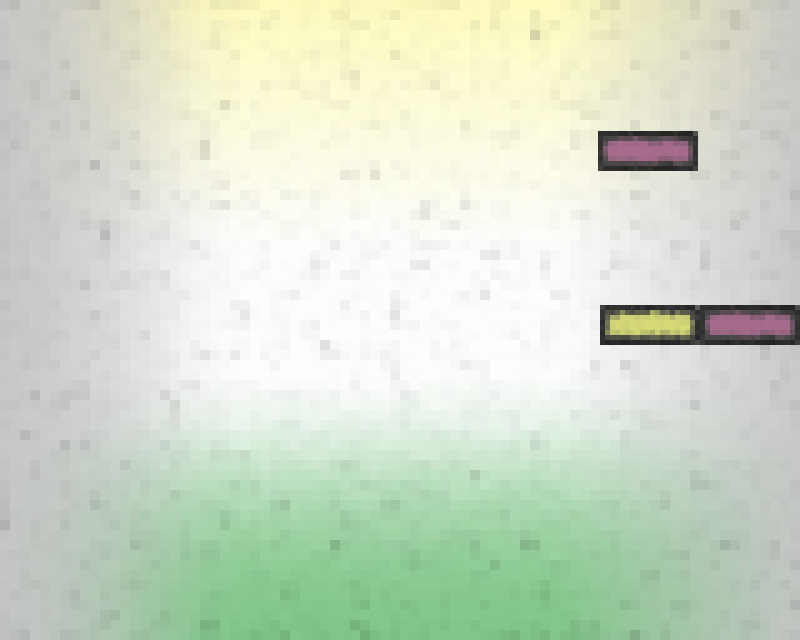
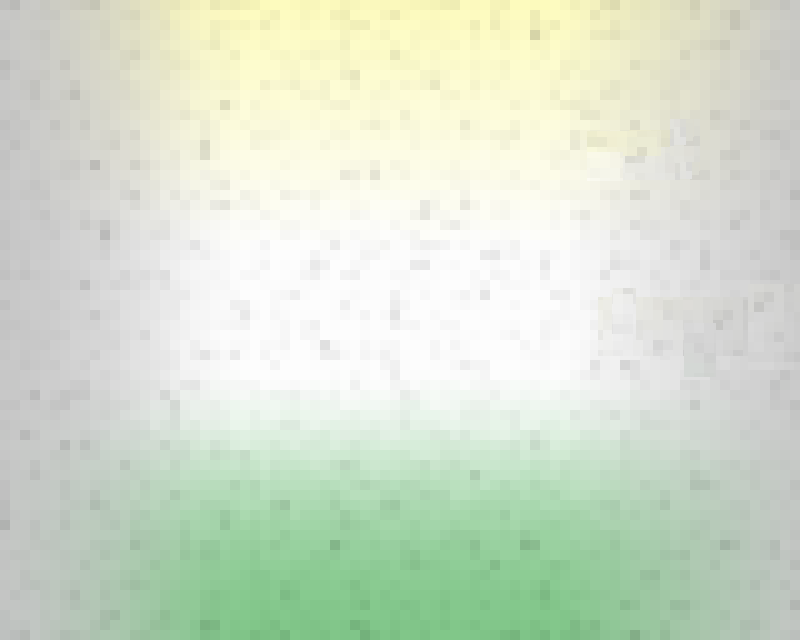
keys in optionsScreen

Changed region(s): [[0.75, 0.4688, 1.0, 0.5625], [0.75, 0.1875, 0.875, 0.2812]]

diff --git a/src/screens/optionsScreen.py b/src/screens/optionsScreen.py
@@ -19,9 +19,12 @@ class OptionsScreen(Screen_):
         super(OptionsScreen, self).__init__()
     
         self.font = utils.getFont('Handy00', 44)
+        self.infofont = utils.getFont('Handy00', 18)
+        self.keyfont = utils.getFont('Handy00', 24)
         self.background = pygame.image.load("../img/backgrounds/options.png").convert()
         self.soundBar = pygame.image.load("../img/backgrounds/soundBar.png")
         self.musicBar = pygame.image.load("../img/backgrounds/soundBar.png")
+        self.keyImg = pygame.image.load("../img/backgrounds/key.png")
         self.volumeTest = pygame.mixer.Sound("../sounds/volumeTest.wav")
         self.menuEntries = ["Music","Sound","Controls","Back"]
         self.menuPositions = [(200,100),(200,200),(200,300),(200,500)]
@@ -34,6 +37,10 @@ class OptionsScreen(Screen_):
         self.musicLevel = 0
         if exist('musicLevel'):
            self.musicLevel = load('musicLevel')
+        self.actionKeys = ['slow time','shield','trap','left','jump','right']
+        self.keys = ['w','x','c','<','^','>']
+        self.actionKeysPos = [(200,450),(330,450),(430,450),(530,450),(630,450),(730,450)]
+
 
 
 
@@ -44,11 +51,13 @@ class OptionsScreen(Screen_):
                 backgroundScreen.blit(self.font.render(self.menuEntries[i], 1, self.activeColor), self.menuPositions[i])
             else:
                 backgroundScreen.blit(self.font.render(self.menuEntries[i], 1, self.inactiveColor), self.menuPositions[i])
+        for i in range(len(self.actionKeys)):
+            backgroundScreen.blit(self.infofont.render(self.actionKeys[i],1,self.inactiveColor),(200+(i>0)*(i*100+30),450))
+            backgroundScreen.blit(self.keyImg,(200+(i>0)*(i*100+30),380))
+            backgroundScreen.blit(self.keyfont.render(self.keys[i],1,self.inactiveColor),(200+(i>0)*(i*100+30)+20,390))
         for i in range(5):
             backgroundScreen.blit(self.soundBar, (400+i*40,120), (0, (self.soundLevel > i)*30, 30, 30))
-            backgroundScreen.blit(self.musicBar, (400+i*40,220), (0, (self.musicLevel > i)*30, 30, 30))        
-        print(self.soundLevel)
-        print(self.musicLevel)
+            backgroundScreen.blit(self.musicBar, (400+i*40,220), (0, (self.musicLevel > i)*30, 30, 30))
 
       
     def handle_events(self, events):
